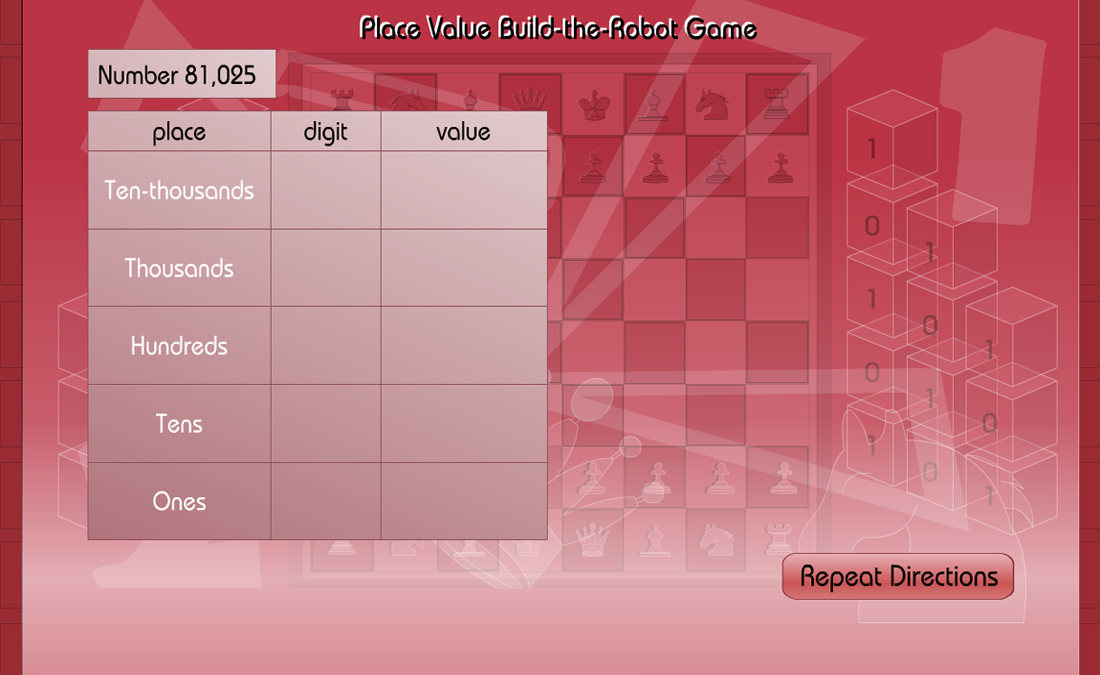
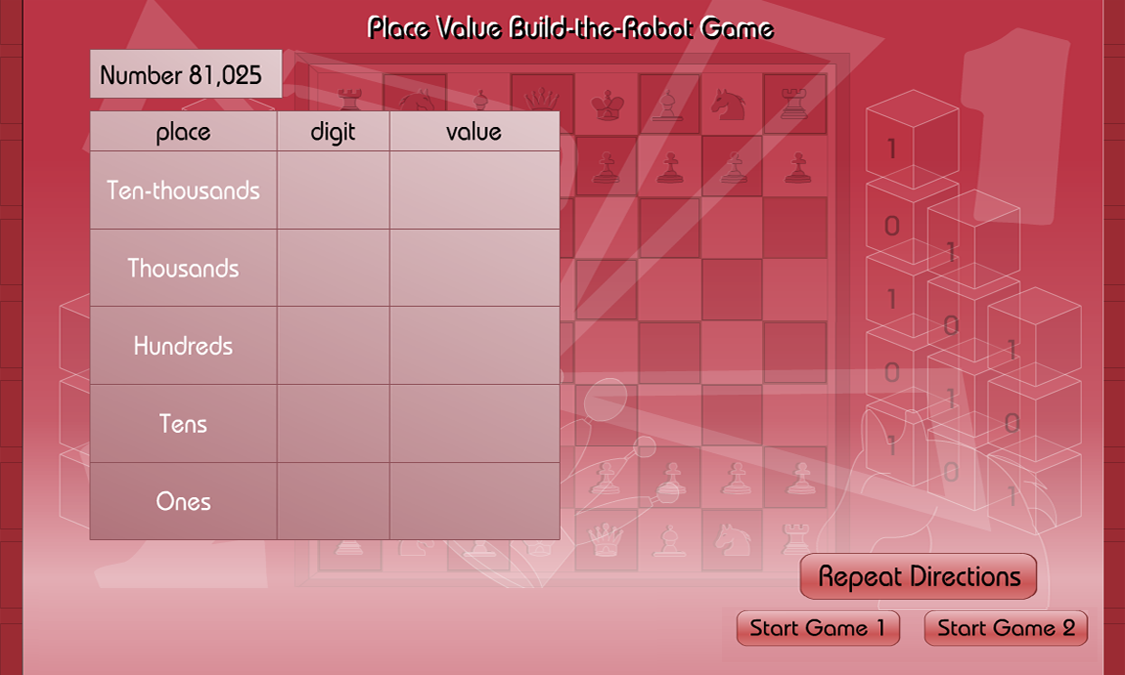
demo done

Changed region(s): [[0.6491, 0.9022, 0.9891, 0.9644], [0.34, 0.0311, 0.3709, 0.0622]]

diff --git a/interact.js b/interact.js
@@ -66,30 +66,41 @@ class Interact  {
 	}
 
 
-	RobotGame(which=1)																			// ROBOTGAME INTERACTION
+	RobotGame(which=0)																			// ROBOTGAME INTERACTION
 	{
 		let i,o,str="";
 		let w=$("#hm-overlay").width(), h=$("#hm-overlay").height();								// Get container sizes
-		str+=`<img src="${this.path}-back${which}.png" style="width:100%">`;						// Add back
-		if (which == 1) {
+		str+=`<img src="${this.path}-back${which+1}.png" style="width:100%">`;						// Add back
+		act.curAct.items=[];																		// Clear items
+		if (which == 0) {
 			act.curAct.items.push({ sx:3,	 sy:90, 	ex:28,	 ey:27, 	wid:5 });
 			act.curAct.items.push({ sx:8,	 sy:90, 	ex:28,	 ey:39, 	wid:5 });
 			act.curAct.items.push({ sx:13,	 sy:90, 	ex:28,	 ey:50, 	wid:5 });
-			act.curAct.items.push({ sx:18,	 sy:90, 	ex:28,	 ey:64, 	wid:5 });
-			act.curAct.items.push({ sx:23,	 sy:90, 	ex:28,	 ey:74, 	wid:5 });
-			act.curAct.items.push({ sx:28,	 sy:90, 	ex:37.5, ey:27, 	wid:5 });
+			act.curAct.items.push({ sx:18,	 sy:90, 	ex:28,	 ey:61, 	wid:5 });
+			act.curAct.items.push({ sx:23,	 sy:90, 	ex:28,	 ey:73, 	wid:5 });
+			act.curAct.items.push({ sx:28,	 sy:90, 	ex:38, 	 ey:27, 	wid:5 });
 			act.curAct.items.push({ sx:38.5, sy:90, 	ex:38,	 ey:39, 	wid:5 });
 			act.curAct.items.push({ sx:48,	 sy:90, 	ex:40,	 ey:50, 	wid:5 });
-			act.curAct.items.push({ sx:53,   sy:90, 	ex:39.5, ey:64, 	wid:5 });
-			act.curAct.items.push({ sx:59,	 sy:90, 	ex:40,	 ey:74, 	wid:5 });
-		}
+			act.curAct.items.push({ sx:53,   sy:90, 	ex:39.5, ey:61, 	wid:5 });
+			act.curAct.items.push({ sx:59,	 sy:90, 	ex:40,	 ey:73, 	wid:5 });
+			}
+		else if (which == 1) {
+			act.curAct.items.push({ sx:3,	 sy:90, 	ex:23,   ey:31, 	wid:5 });
+			act.curAct.items.push({ sx:8,	 sy:90, 	ex:23,   ey:45, 	wid:5 });
+			act.curAct.items.push({ sx:13,	 sy:90, 	ex:23,   ey:58, 	wid:5 });
+			act.curAct.items.push({ sx:18,	 sy:90, 	ex:34,   ey:19.5, 	wid:5 });
+			act.curAct.items.push({ sx:23,	 sy:90, 	ex:23,   ey:73, 	wid:5 });
+			act.curAct.items.push({ sx:28,	 sy:90, 	ex:32.5, ey:45, 	wid:5 });
+			act.curAct.items.push({ sx:35.5, sy:90, 	ex:31,	 ey:73, 	wid:5 });
+			act.curAct.items.push({ sx:46,	 sy:88, 	ex:46,	 ey:70, 	wid:10 });
+			}
 
 		for (i=0;i<act.curAct.items.length;++i) {													// For each item
 			o=act.curAct.items[i];																	// Point at items
 			o.status=false;																			// Reset status
-			str+=`<img id="hm-act-${i}" src="${this.path}-${i}.png" style="position:absolute;left:${o.sx}%;top:${o.sy}%;height:${o.wid}%">`	
+			str+=`<img id="hm-act-${i}" src="${this.path}-${which*20+i}.png" style="position:absolute;left:${o.sx}%;top:${o.sy}%;height:${o.wid}%">`;	
 			}
-		str+=`<div id="hm-robot" style="position:absolute;left:68%;top:5%;width:29%"></div>`;		// Holds robot
+		str+=`<div id="hm-robot" style="position:absolute;left:69%;top:6%;width:25%"></div>`;		// Holds robot
 
 		$("#hm-overlay").html(str);																	// Add items to markup														111110000
 		for (i=0;i<act.curAct.items.length;++i) {
@@ -103,8 +114,9 @@ class Interact  {
 						for (j=0;j<act.curAct.items.length;++j)	if (!act.curAct.items[j].status) break;	// Go through status
 							if (j == act.curAct.items.length) this.Done(act.curAct);				// All correct!, so handle done 
 							Sound("img/tada.mp3");													// Correct sound
-							trace(e.target.id.substring(7))
 							$("#hm-robot").append(`<img src="${this.path}-8${e.target.id.substring(7)}.png" style="width:100%;position:absolute">`);		// Add it	
+							if ((e.target.id.substring(7) == 0) && which)	$("#hm-robot").append(`<img src="${this.path}-89.png" style="width:100%;position:absolute">`);	// Kludge	
+							if ((e.target.id.substring(7) == 2) && (which))	$("#hm-robot").append(`<img src="${this.path}-88.png" style="width:100%;position:absolute">`);		// Kludge
 							}
 						else{																		// Wrong
 							o.status=false;															// Set status
@@ -115,10 +127,11 @@ class Interact  {
 				});
 			}
 			
-		this.OnClick(.83,.89,.1,.05,()=>{															// On help
+		this.OnClick(.82,.86,.1,.05,()=>{															// On help
 			TimedPopUp("The object of the game is to enter missing digits and values.<br>For the missing information in each row, drag the answers in the correct box.",-1)
 			});
-	
+		this.OnClick(.73,.95,.1,.05,()=>{ this.RobotGame(0);		});								// Switch to game 1
+		this.OnClick(.89,.95,.1,.05,()=>{ this.RobotGame(1);		});								// Switch to game 2
 	}
 
 

diff --git a/app.js b/app.js
@@ -169,7 +169,7 @@ class App  {
 		$("#hm-next").on("click",()=>{ $("#hm-pageNext").trigger("click"); });						// NEXT
 		$("#hm-mapbut").on("click",()=>{ app.ShowTopicMenu() });									// TOPICS MENU
 		$("#hm-keyterms").on("click",()=>{ key.Show() });											// KEY TERMS MENU
-act.Run("T00-00-04-01-00");	
+//act.Run("T00-00-04-01-00");	
 	}
 
 	DrawPageBar(pages)																			// DRAW PAGE NAVIGATION BAR
